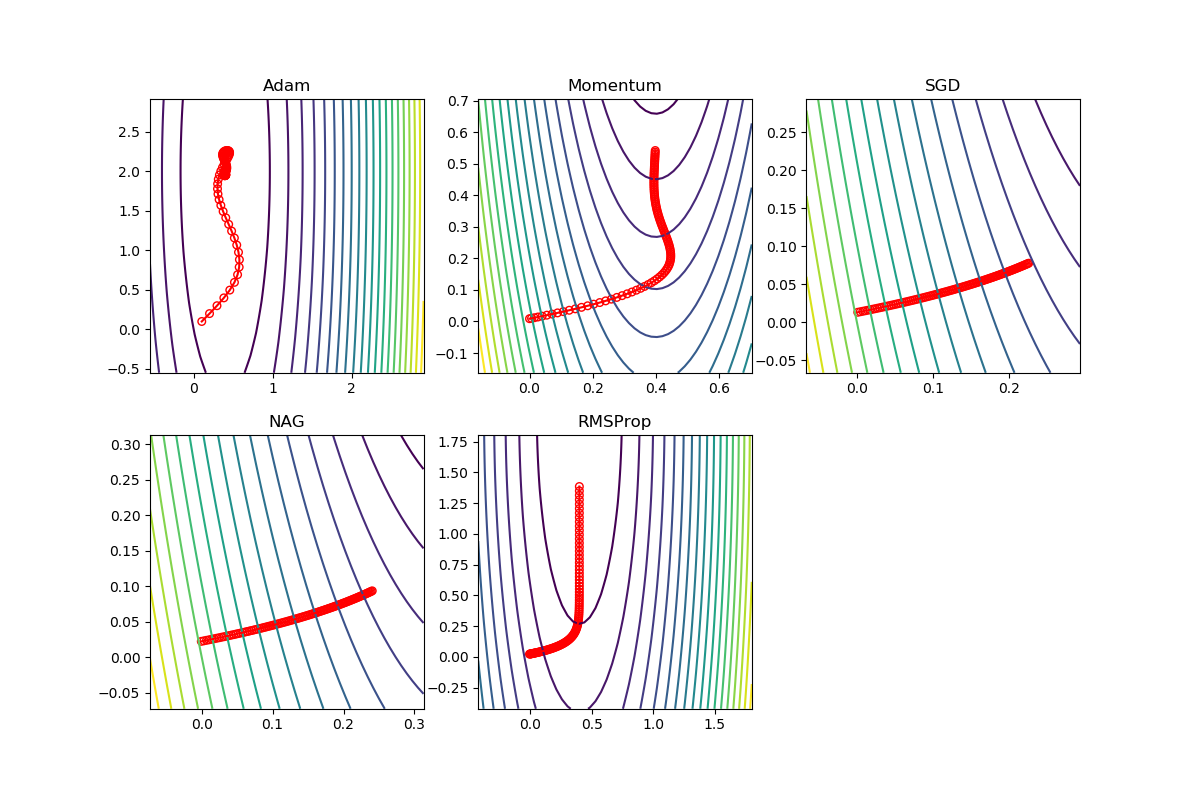
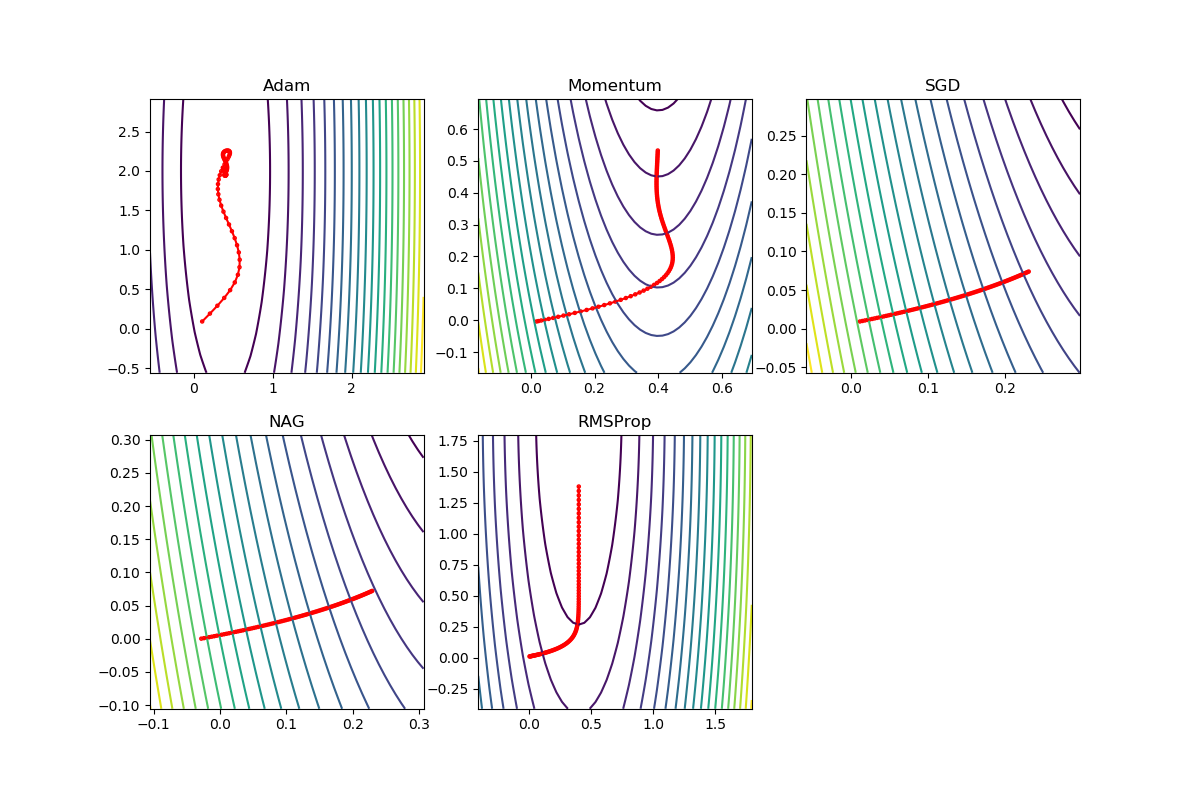
plot finished

diff --git a/plot.py b/plot.py
@@ -100,7 +100,7 @@ def main():
       ax.set_aspect('equal')
       ax.axis([t_min, t_max, t_min, t_max])
       ax.set_title(optimizer)
-      ax.scatter(x[optimizer][prob_idx][:, 0], x[optimizer][prob_idx][:, 1], s=30, edgecolors='r', facecolors='none',
+      ax.scatter(x[optimizer][prob_idx][:, 0], x[optimizer][prob_idx][:, 1], s=5, edgecolors='r', facecolors='none',
                   marker='o')
       ax.plot(x[optimizer][prob_idx][:, 0], x[optimizer][prob_idx][:, 1], color='r')
   #plt.colorbar()
